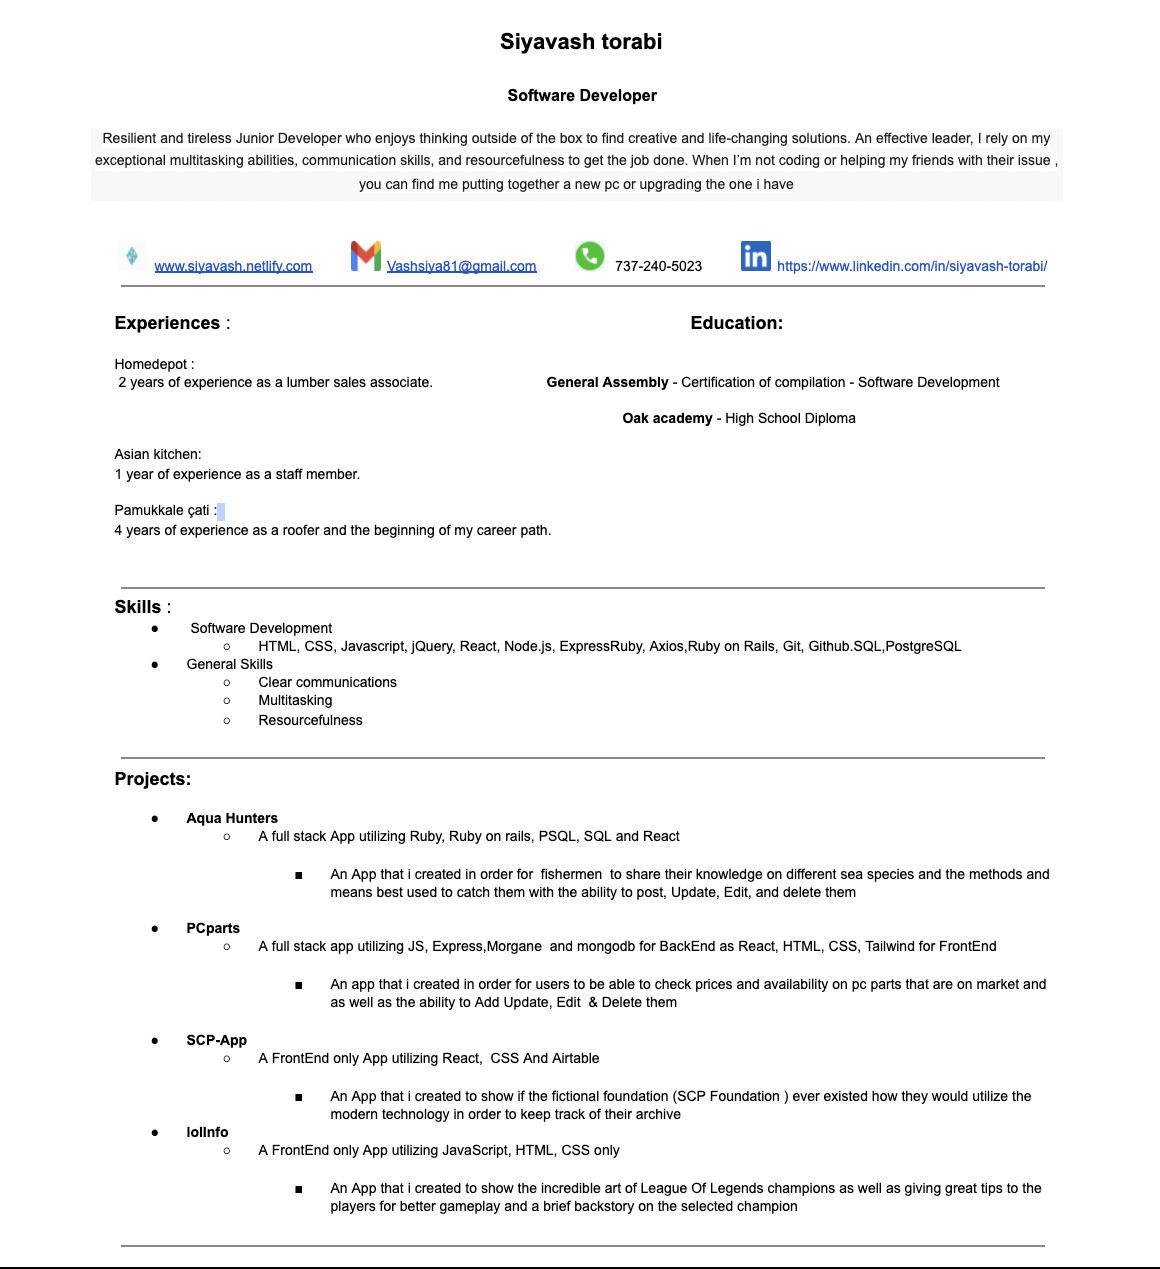
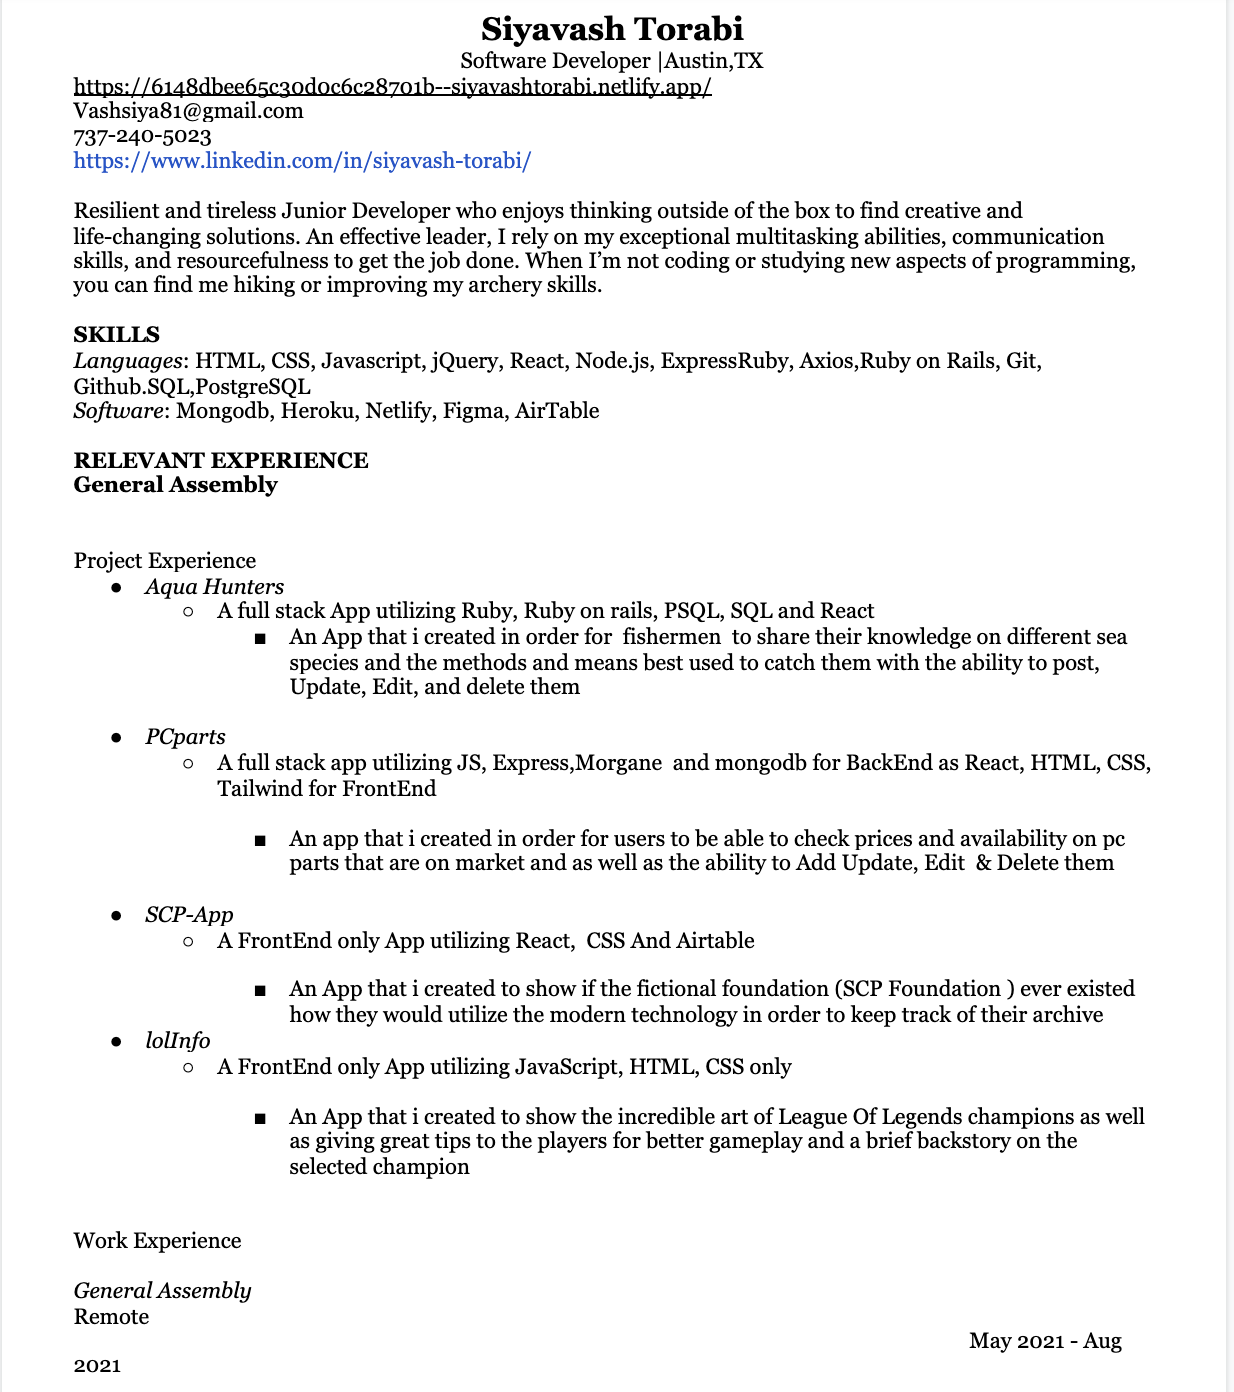
updated resume

Changed region(s): [[0.0621, 0.0, 0.931, 0.9835], [0.031, 0.8605, 0.2172, 1.0], [0.0931, 0.461, 0.1552, 0.4917]]

diff --git a/portfolio/src/screens/Projects.jsx b/portfolio/src/screens/Projects.jsx
@@ -6,7 +6,7 @@ export default function Projects() {
     <div className="projects">
       <div className="project1">
         <h2 className="texts">SCP-APP</h2>
-        <a className="links" href="https://lucid-wiles-f50192.netlify.app/" rel="noreferrer" target="_blank">deployed site</a>
+        <a className="links" href="https://lucid-wiles-f50192.netlify.app/" rel="noreferrer" target="_blank">Deployed site</a>
         <a className="links" href="https://github.com/SiyavashTorabi/scp-app" rel="noreferrer" target="_blank">App On Github</a>
 
         <h3 className="texts">FE Only</h3>
@@ -26,7 +26,7 @@ export default function Projects() {
       <div className="project2">
         <h2 className="texts">Aqua Hunters</h2>
         
-        <a className="links" href="https://61012b87a5da71b8ffa6a634--aqua-hunters.netlify.app/" rel="noreferrer" target="_blank">deployed site</a>
+        <a className="links" href="https://61012b87a5da71b8ffa6a634--aqua-hunters.netlify.app/" rel="noreferrer" target="_blank">Deployed site</a>
         <a className="links" href="https://github.com/SiyavashTorabi/Aqua-Hunters" rel="noreferrer" target="_blank">App On Github</a>
         <h3 className="texts">Full Stack</h3>
         <h4 className="pov">An App that gives the ability to users to share information and tips on aquatic life form in the region.App is created using Ruby, Ruby on Rails, PSQL for BE & React and CSS for FE. </h4>         
@@ -45,7 +45,7 @@ export default function Projects() {
     </div>
       <div className="project3">
         <h2 className="texts">PCParts</h2>
-        <a className="links" href="https://siyas-pcparts.netlify.app/" rel="noreferrer" target="_blank">deployed site</a>
+        <a className="links" href="https://siyas-pcparts.netlify.app/" rel="noreferrer" target="_blank">Deployed site</a>
         <a className="links" href="https://github.com/SiyavashTorabi/PCParts" rel="noreferrer" target="_blank">App On Github</a>
         <h3 className="texts">Full Stack</h3>
         <h4 className="pov">An App in which user is able to create, check, update, and delete details on pc parts. APP is created using express and JS for BE & React, css for FE. </h4>        <ul className="texts"> 
@@ -62,7 +62,7 @@ export default function Projects() {
     </div>
       <div className="project4">
         <h2 className="texts">lolinfo</h2>
-        <a className="links" href="https://siyavashtorabi.github.io/lolinfo/" rel="noreferrer" target="_blank">deployed site</a>
+        <a className="links" href="https://siyavashtorabi.github.io/lolinfo/" rel="noreferrer" target="_blank">Deployed site</a>
         <a className="links" href="https://github.com/SiyavashTorabi/lolinfo" rel="noreferrer" target="_blank">App On Github</a>
         <h3 className="texts">FE Only</h3>
         <h4 className="pov"> An App created to give helpful tips and back story on the selected champions for the game League of legends. App is created using basic HTML, JS, CSS. </h4>         

diff --git a/portfolio/src/screens/Resume.jsx b/portfolio/src/screens/Resume.jsx
@@ -4,6 +4,7 @@ export default function Resume() {
   return (
     <div>
       <img className="resumeImg" src="resume.jpg" alt="resume img"/>
+      <img className="resumeImg" src="resume2.jpg" alt="resume img"/>
     </div>
   )
 }
